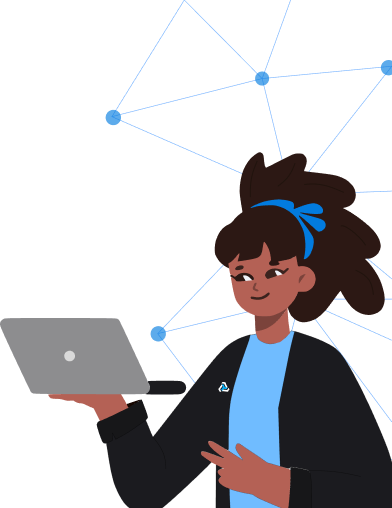
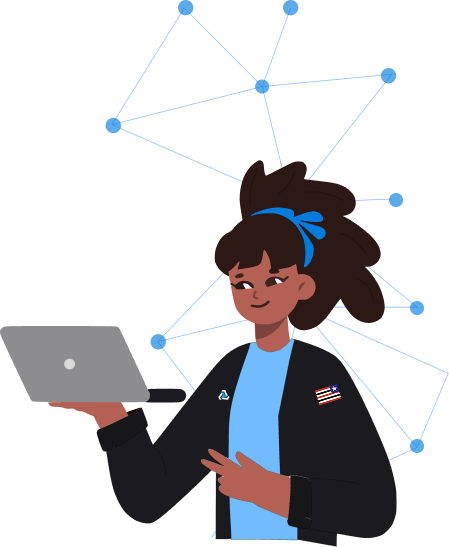
Adicionando hero:after para desktop e ajustando responsividade
Adicionando o quadrado var(--dark-blue) no hero

diff --git a/css/Novo_CSS/programacao.css b/css/Novo_CSS/programacao.css
@@ -1,5 +1,5 @@
 /* ============================================================
-   programacao.css — Mobile-First Styling (Hero, Tabs & Timeline)
+   Mobile-First Styling (Hero, Tabs & Timeline)
    ============================================================ */
 
 /* ── DESIGN SYSTEM & TOKENS ── */
@@ -18,12 +18,13 @@
 /* ── HERO SECTION ── */
 .hero {
   background-color: var(--second-blue);
-  padding: 2rem 1.25rem 0;
+  padding: 2rem 1.25rem 1.5rem;
   position: relative;
   overflow: hidden;
   display: flex;
   flex-direction: column;
 }
+
 
 .hero-inner {
   width: 100%;
@@ -35,7 +36,6 @@
 
 .hero-inner>div {
   width: 65%;
-  /* Leave room for absolute mascot on the right */
   max-width: 260px;
   display: flex;
   flex-direction: column;
@@ -73,36 +73,58 @@
   margin: 0.5rem 0 0;
   font-weight: 600;
 }
-.hero-day{
+
+.hero-day {
   display: flex;
   align-items: center;
+  gap: 0.5rem;
 }
-.hero-date{
+
+.hero-day p {
+  margin: 0;
+  line-height: 1.3;
+}
+
+.hero-date {
   font-family: 'Montserrat', sans-serif;
   display: flex;
-  align-items: center;
+  flex-direction: column;
+  align-items: flex-start;
   color: var(--text-white);
   font-size: 0.72rem;
   font-weight: 600;
-  gap: 2.5rem;
+  gap: 0.85rem;
+  margin-top: 0.85rem;
 }
-.hero-local__sub{
+
+.hero-local {
+  display: flex;
+  align-items: flex-start;
+  gap: 0.5rem;
+}
+
+.hero-local svg {
+  margin-top: 2px;
+  flex-shrink: 0;
+}
+
+.hero-local__sub {
   display: flex;
   flex-direction: column;
-  gap: 0.25rem;
+  gap: 0.2rem;
 }
 
-.hero-local{
-  display: flex;
-  align-items: center;
+.hero-local__sub p {
+  margin: 0;
+  line-height: 1.3;
 }
 
-/* Character/Mascot */
+
 .hero-boneca {
   position: absolute;
-  right: -6px;
-  bottom: 0;
-  width: 193px;
+  right: -50px;
+  bottom: -10px;
+  width: 252px;
   height: auto;
   object-fit: contain;
   z-index: 1;
@@ -291,7 +313,7 @@ main {
   margin-bottom: 10px;
 }
 
-/* Left: Time Column */
+/* Left: Coluna Time */
 .schedule-time-col {
   display: flex;
   flex-direction: row;
@@ -314,7 +336,7 @@ main {
   margin-right: 0.25rem;
 }
 
-/* Middle: Info Column */
+/* Middle: Info Coluna */
 .schedule-info-col {
   flex-grow: 1;
   display: flex;
@@ -331,7 +353,7 @@ main {
   line-height: 1.35;
 }
 
-/* Speakers List */
+/* Palestrantes List */
 .speakers-list {
   display: flex;
   align-items: center;
@@ -360,7 +382,7 @@ main {
   font-weight: 600;
 }
 
-/* Right: Location Column */
+/* Right: Location Colu */
 .schedule-location-col {
   display: flex;
   align-items: center;
@@ -419,14 +441,10 @@ main {
 }
 
 
-/* ============================================================
-   ── RESPONSIVE SCALING (Media Queries for Tablets & Desktops) ──
-   ============================================================ */
-
-/* Small Tablets / Landscape Phones */
+/*Tablets and Landscape */
 @media (min-width: 480px) {
   .hero {
-    padding: 2.5rem 2rem 0;
+    padding: 2.5rem 2rem 1.5rem;
   }
 
   .hero-inner>div {
@@ -443,8 +461,14 @@ main {
   }
 
   .hero-boneca {
-    width: 170px;
-    right: 10px;
+    width: 255px;
+    right: -31px;
+  }
+
+
+  .hero-date {
+    font-size: 0.78rem;
+    gap: 1rem;
   }
 
   .day-tabs {
@@ -465,10 +489,10 @@ main {
   }
 }
 
-/* Medium Tablets (e.g. iPad portrait) */
+/* Tablets grandes */
 @media (min-width: 768px) {
   .hero {
-    padding: 3.5rem 3rem 0;
+    padding: 3.5rem 3rem 1.5rem;
   }
 
   .hero-inner>div {
@@ -490,9 +514,18 @@ main {
     margin-top: 0.75rem;
   }
 
-  .hero-boneca {
-    width: 250px;
-    right: 30px;
+.hero-boneca {
+    width: 385px;
+    right: -67px;
+    bottom: -10px;
+  }
+
+
+  .hero-date {
+    flex-direction: row;
+    align-items: flex-start;
+    gap: 1.75rem;
+    font-size: 0.82rem;
   }
 
   .day-tabs {
@@ -532,7 +565,6 @@ main {
   .timeline-marker {
     left: 0;
     top: 24px;
-    /* aligned with center of first row line height */
   }
 
   .schedule-item {
@@ -585,8 +617,27 @@ main {
 /* Desktop Screens */
 @media (min-width: 1024px) {
   .hero {
-    padding: 4.5rem 4rem 0;
+    padding: 4.5rem 4rem 1.5rem;
   }
+
+  .hero::after {
+  content: '';
+  position: absolute;
+  left: 822px;
+  bottom: -1px;
+  width: 729px;
+  height: 502px;
+  background-color: var(--dark-blue);
+  border-radius: 48px;
+  z-index: 0;
+  pointer-events: none;
+}
+
+.hero-date {
+  display: flex;
+  flex-direction:row;
+  align-items: flex-start;
+}
 
   .hero-inner>div {
     max-width: 600px;
@@ -602,8 +653,14 @@ main {
   }
 
   .hero-boneca {
-    width: 385px;
-    right: 1px;
+    width: 449px;
+    right: 118px;
+    bottom: -10px;
+  }
+
+  .hero-date {
+    gap: 2.5rem;
+    font-size: 0.88rem;
   }
 
   .day-tabs {